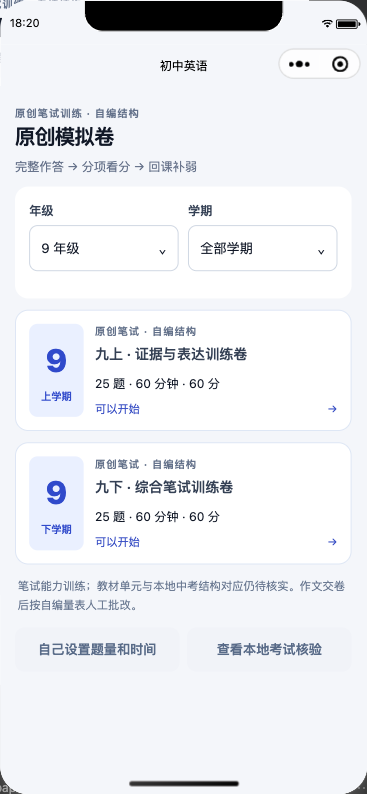
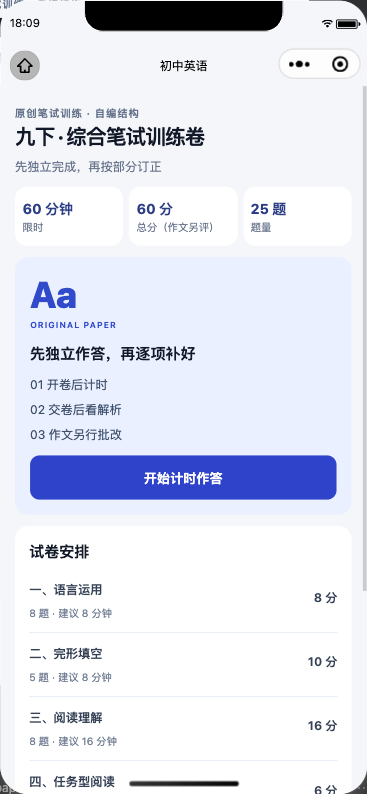
qa: retain the verified native preflight frame

diff --git a/docs/reviews/mock-exams-2026-10-17.md b/docs/reviews/mock-exams-2026-10-17.md
@@ -95,6 +95,8 @@ editorial approval and publication remain separate. Nothing has been marked rele
 ## Reviewable artifacts
 
 The current native entrance, preflight, answer sheet, section report and evidence review
-are in `docs/screenshots/exam-2026-10-17/`. Download archives are
+are in `docs/screenshots/exam-2026-10-17/`. The preflight uses the geometry-run frame;
+the later preflight screenshot caught the previous lobby frame despite correct bound data.
+The harness now also requires the five rendered section rows and waits for the screenshot frame. Download archives are
 `dist/local-english-app.zip` and `dist/english-wechat-development.zip`. Both pass CRC and
 entry-by-entry source comparison; exact archive hashes are in `mock-exams-evidence-2026-10-17.json`.
